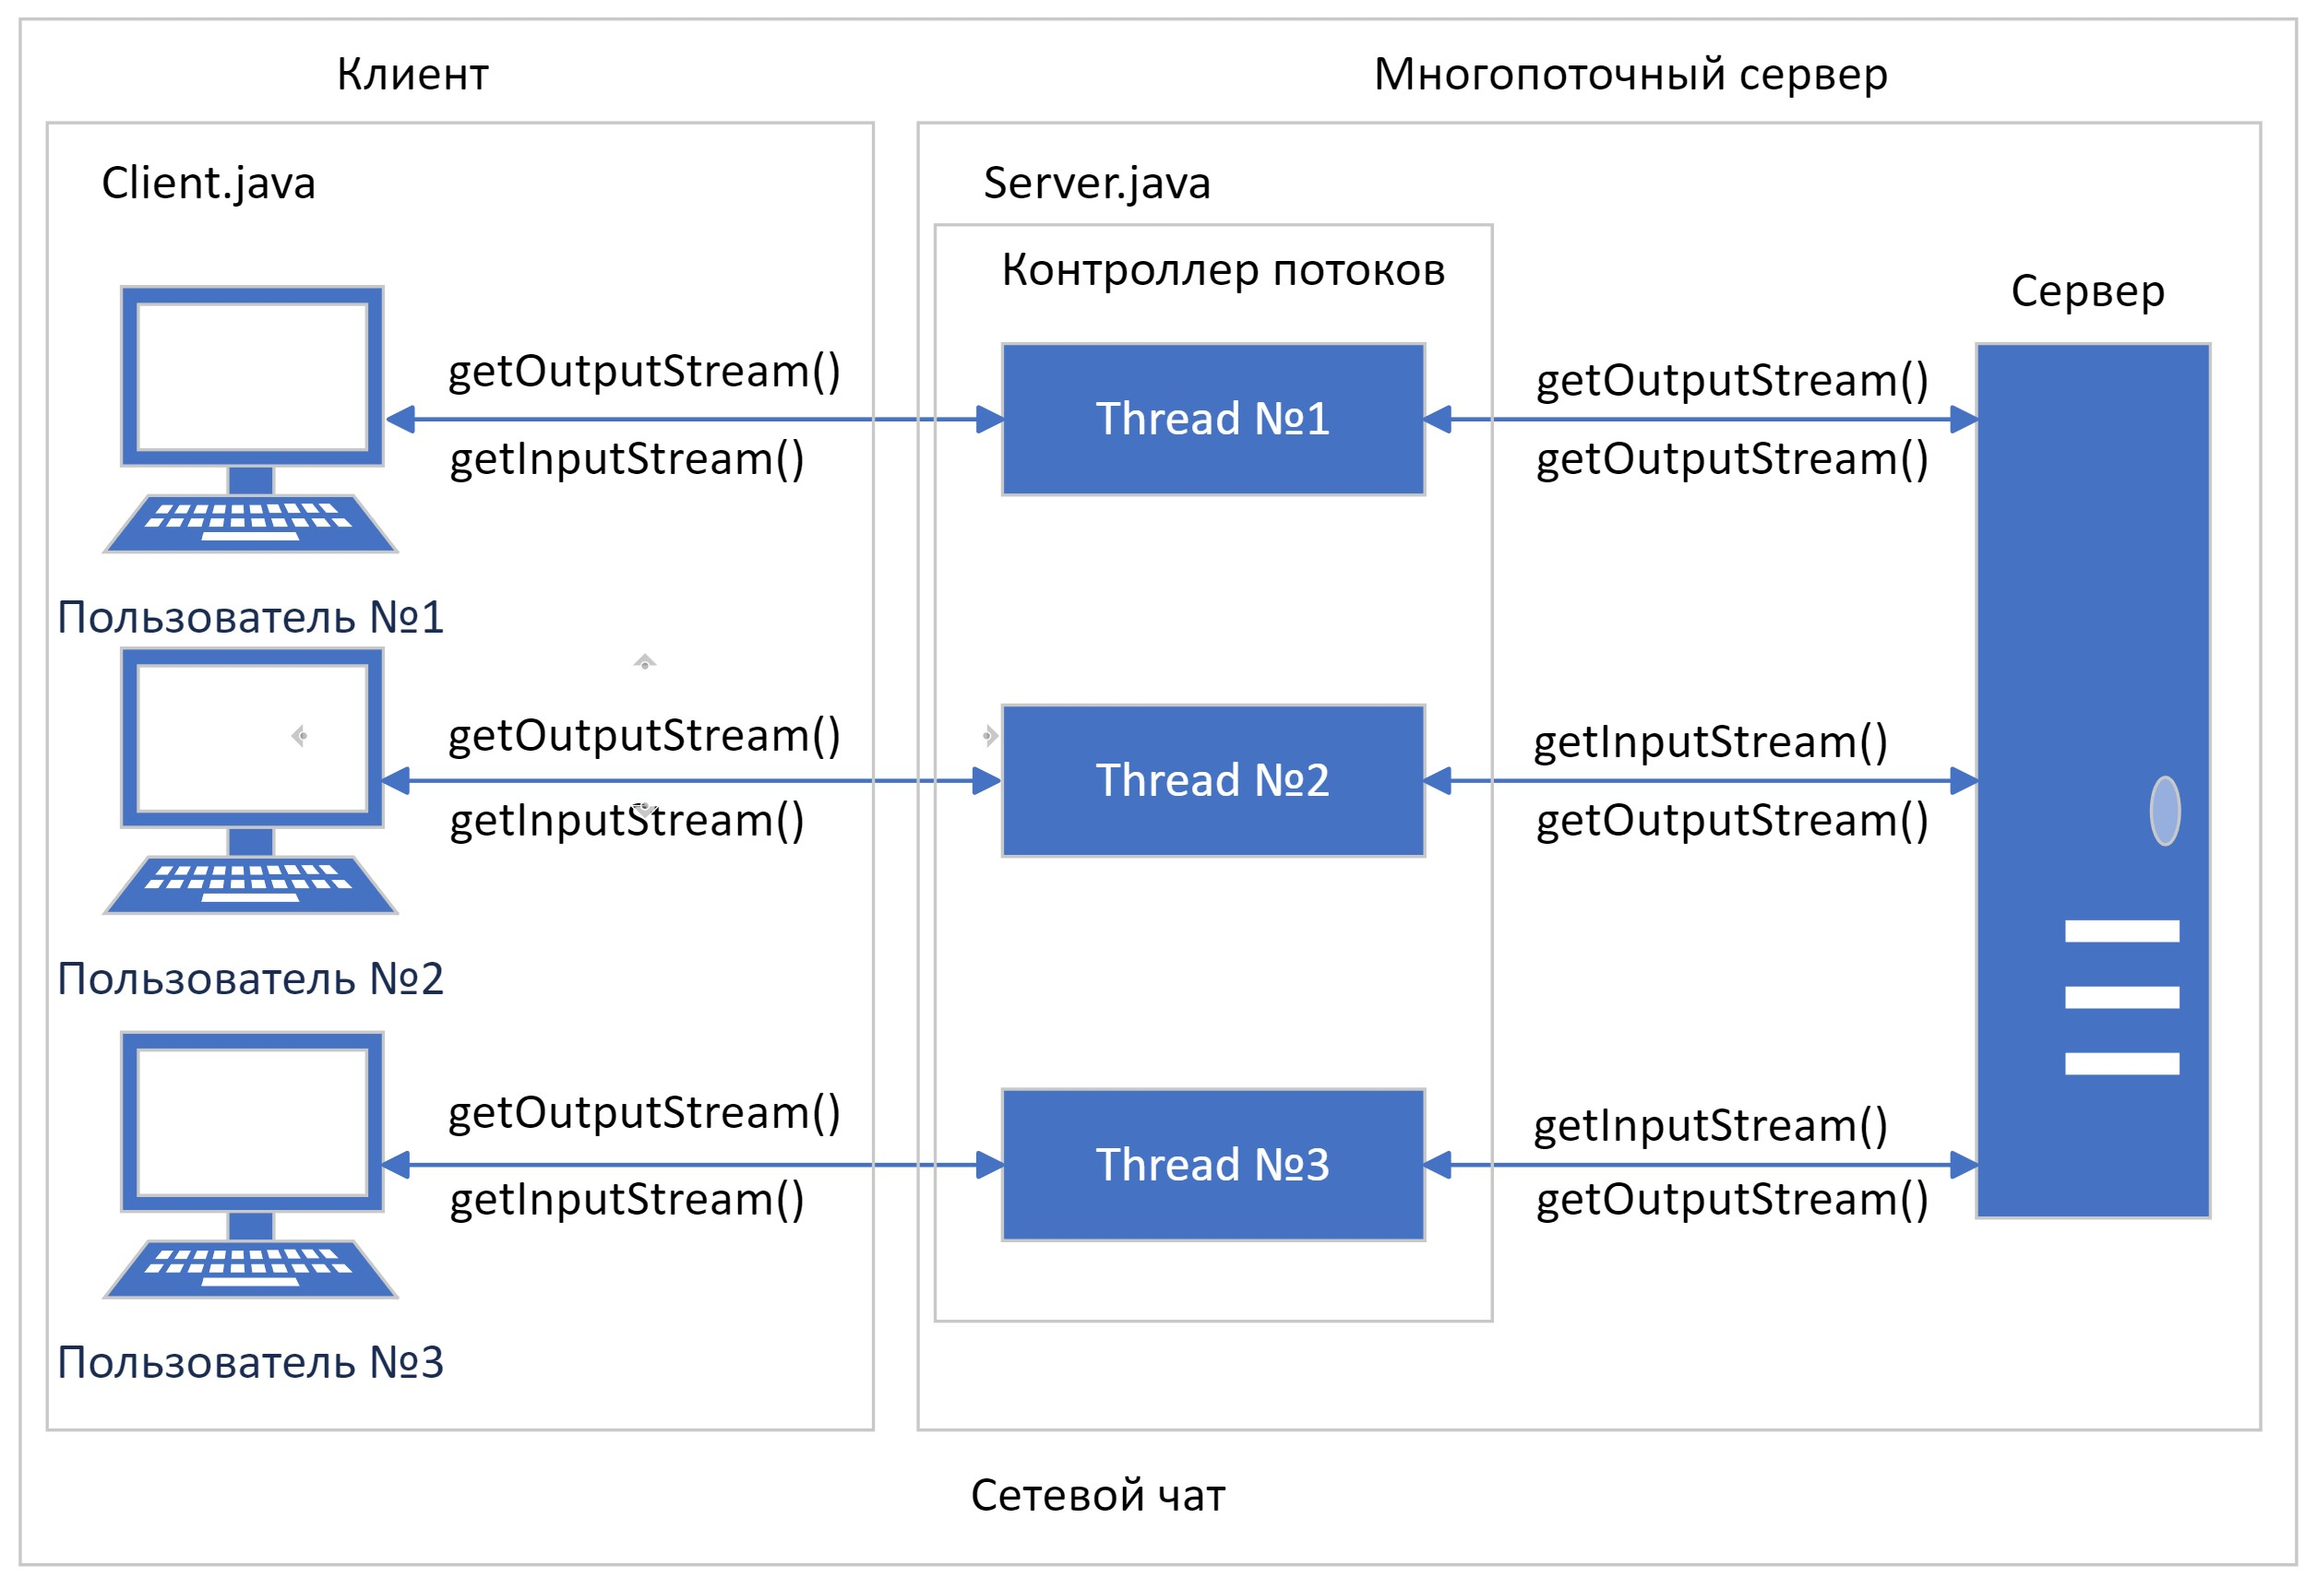
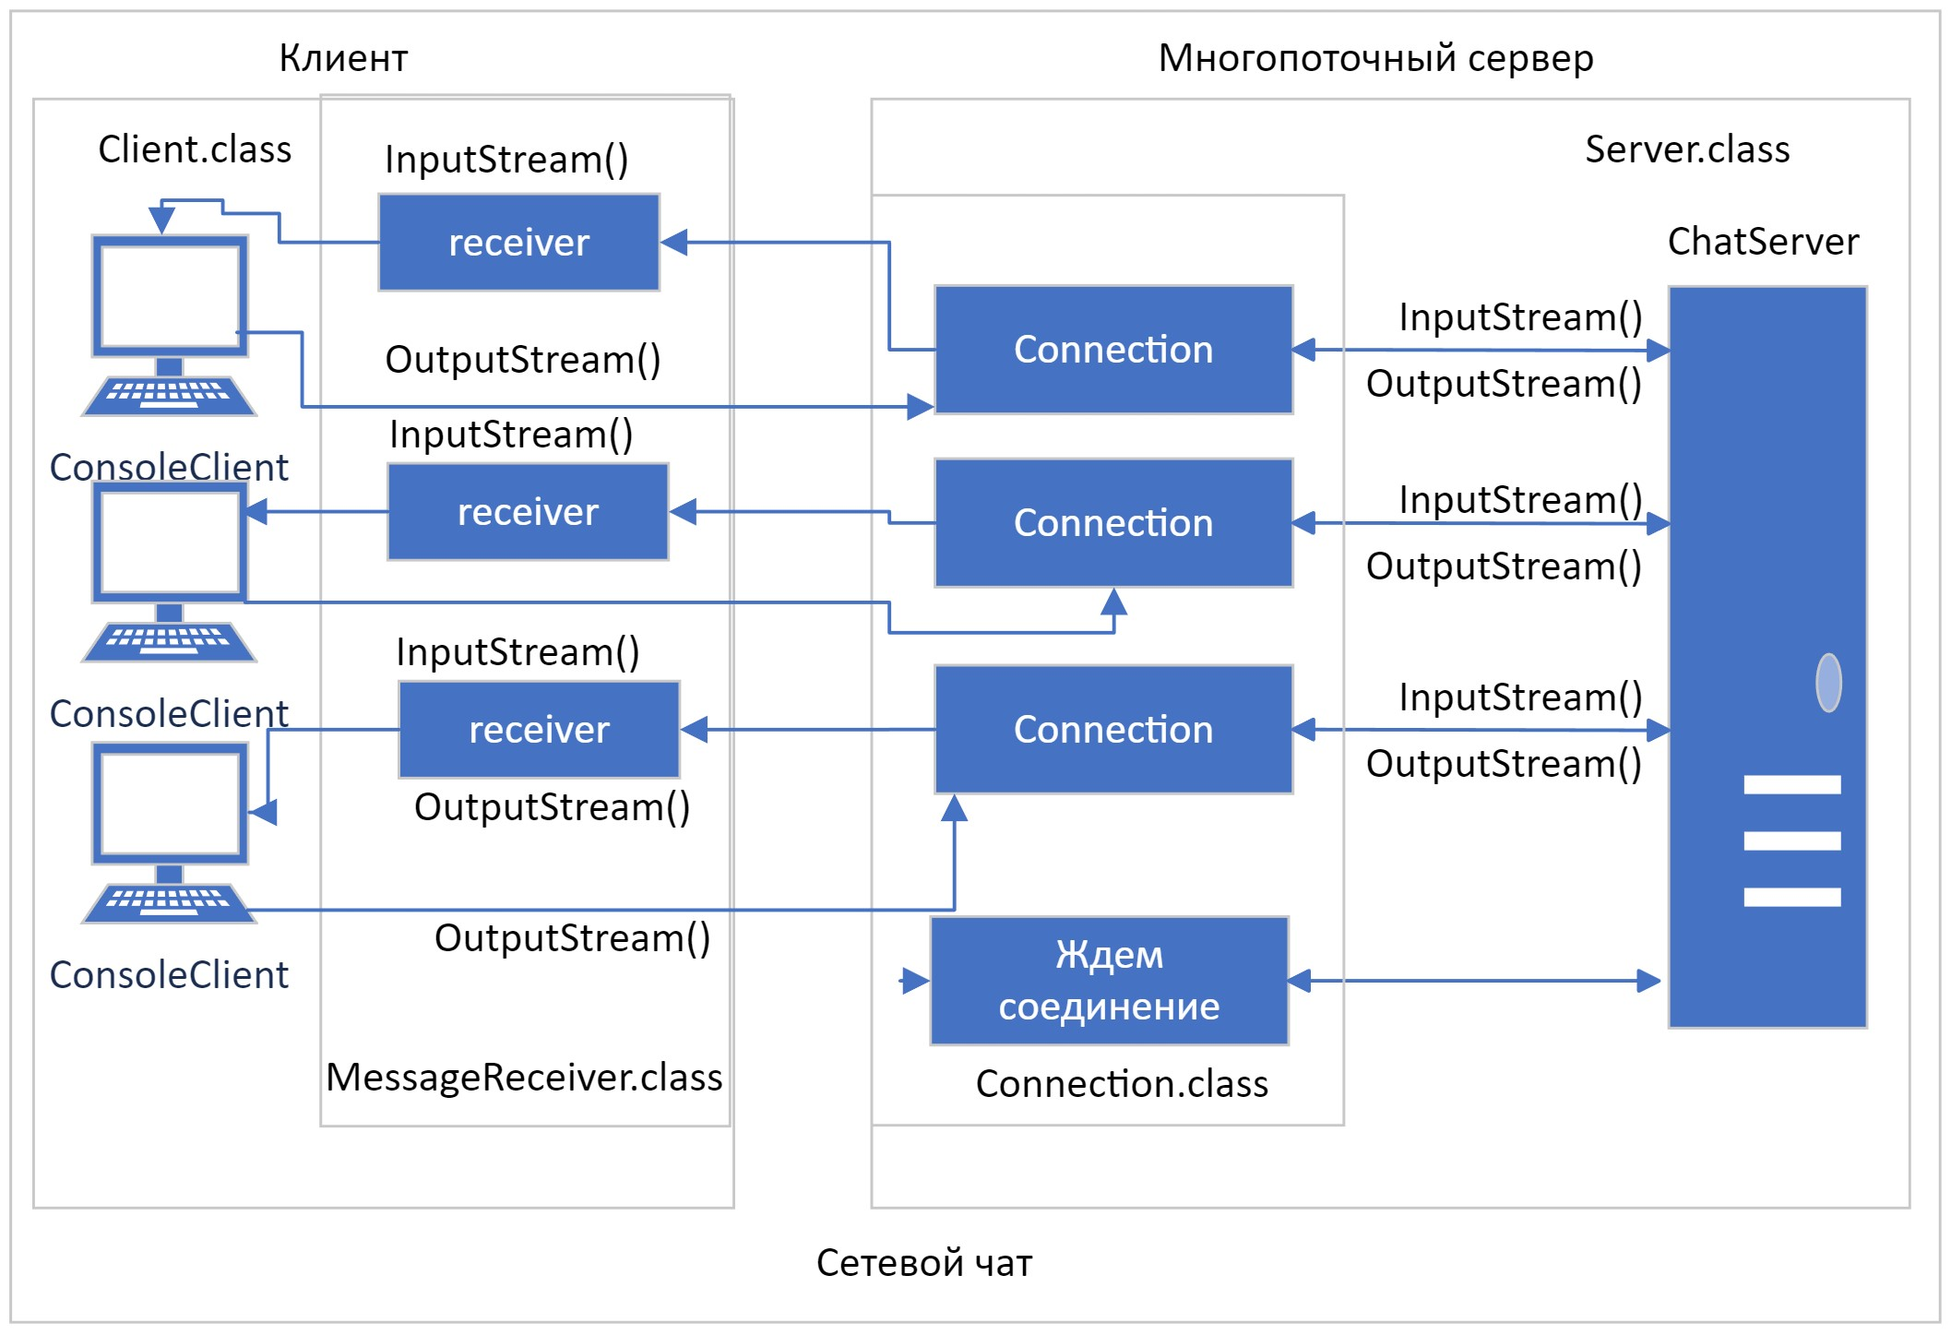
Обновлено описание

Changed region(s): [[0.0, 0.0, 0.9986, 0.933], [0.0, 0.933, 0.9986, 0.9952]]

diff --git a/Readme.md b/Readme.md
@@ -4,36 +4,71 @@ ___
 ___
 Многопоточный "Сетевой чат" демонстрирует работу Клиент Серверной архитектуры, обеспечивая возможность обмена 
 простыми текстовыми сообщениями между клиентом и сервером. Ввод и вывод сообщений осуществляется
-с помощью консоли. Сервер обеспечивает вывод сообщений в консоль от любого клиента, всем подключённым к 
-серверу клиентам.
+с помощью консоли.
 
-Приложение рассчитано на работу в локальной сети. Взаимодействия между клиентом и 
-сервером реализовано по протоколу TCP, с помощью класса Socket из пакета java.net.  
-
-После старта сервер запускает первый поток ожидающий
-подключение Клиента по IP(localhost) адресу указанному в файле настроек на порту 2020.
-
-После подключение каждого нового клиента, сервер создает новый поток ожидающий нового клиента. Поток установивший
-соединение с клиентом переходит в режим ожидания трансляции данных от клиента.
-
-Завершение работы клиента обеспечивается отправкой команды /exit. Работа клиента может быть завершена принудительно, в
- случае если сервер разорвал соединение.
-
-Приложением предусмотрена возможность логирования сообщений и факата соединений, как на стороне сервера, так и клиента.
-Логированные данные сохраняются в файле log.txt, расположенного в коревой папке с приложением. Все данные логирования 
-дописываются в файл не перезаписывая его.
-
-Для обеспечения взаимодействия между клиентом и сервером необходимо чтобы в настройках у клиента и сервера были указаны
-одинаковые IP адреса и порты.
-
-## Файл настроек
+## Описание сервера.
 ___
-Файл настроек находится в корне проекта resources/setting.properties. Файл позволяет изменять 3 параметра:
+Приложение рассчитано на работу в локальной сети. Взаимодействия между клиентом и 
+сервером реализовано по протоколу TCP, через классы ServerSocket и Socket из пакета java.net.  
+
+После старта, Server создает ServerSocket, ожидающий новое подключение. Успешное подключение к ServerSocket создает
+соединение Connection.class выделенное в одельный поток, обслуживающий непрерывный обмен между ServerSocket и Socket.
+После соединения, Server ожидает нового подключения.
+
+Все активные соединения добавляются в `List<Connection>`.
+Для инициализации ChatServer необходимо три аргумента InetAddress, int serverPort, Logger.
+Server служит оберткой для инициализации ChatServer, Logger через ServerSetting.
+
+### Сервер (ChatServer.class) имеет возможности:
+
+- Обслуживать до 50 одновременных соединений.
+- Запускаться с разными параметрами.
+- Получать сообщения от клиентов.
+- Отправлять сообщения всем подключенным клиентам, в консоль.
+- Создавать соединения в отдельном потоке.
+- Запускаться на разных портах.
+- Записывать события и сообщения в файл log.txt.
+- Оповещать клиентов о вошедших и ушедших участниках чата.
+- Запрашивать и отображать имя участника.
+- Проверять уникальность выбранных имен.
+- Отключать клиентов после отправки сообщения exit.
+
+## Описание Клиента.
+___
+Клиент для сервера выполнен в отдельном модуле. После инициализации ConsoleClient, создает Socket для связи с 
+созданным ServerSocket на стороне сервера. Если сервер запущен, с аналогичными параметрами InetAddress и serverPort 
+будет установлено соединение. 
+
+После соединения экземпляр BufferedReader передается в качестве аргумента, 
+экземпляру MessageReceiver. MessageReceiver запускается в параллельном потоке и служит для получения информации от
+ServerSocket и вывода ее в консоль, до обрыва соединения или ввода сообщения exit со стороны клиента. 
+
+### Клиент(ConsoleClient.class) имеет возможности:
+
+- Подключатся к серверу ChatServer.
+- Запускаться с разными параметрами.
+- Видеть сообщения от всех участников чата с момента подключения.
+- Отправлять сообщения в чат.
+- Запускаться на разных портах.
+- Записывать события и сообщения в файл log.txt.
+- Осуществлять прием и отправку сообщений через консоль.
+- Отключатся от сервера после отправки сообщения exit.
+
+## Класс настроек клиента(ClientSetting.class) и сервера(ServerSetting.class.
+___
+Класс настроек позволяет получать параметры хранящиеся в setting.properties и с помощью методов, получать 
+их значения.
 * ipAddress=localhost - IP адрес для сервера и клиента.
 * port=2020 - порт для обмена сообщениями.
 * logPath=./src/main/java/net/chat/resources/log.txt - путь дя хранения лог файла.
 
-Выше представлены настройки по умолчанию. Для изменения настроек необходимо менять значение после символа =.
+## Модуль Logger.
+___
+Модуль Logger состоит из одного публичного метода log, который принимает аргумент типа 
+String для записи в файл log.txt, по указанному пути при инициализации экземпляра.
+
+Модуль нужен для обеспечения логирования событий и сообщений на сервере и клиенте. Logger принимается в качестве 
+аргумента при инициализации ChatServer и ConsoleClient, в классах Server и Client.
 
 ## Схема приложения
 ___
